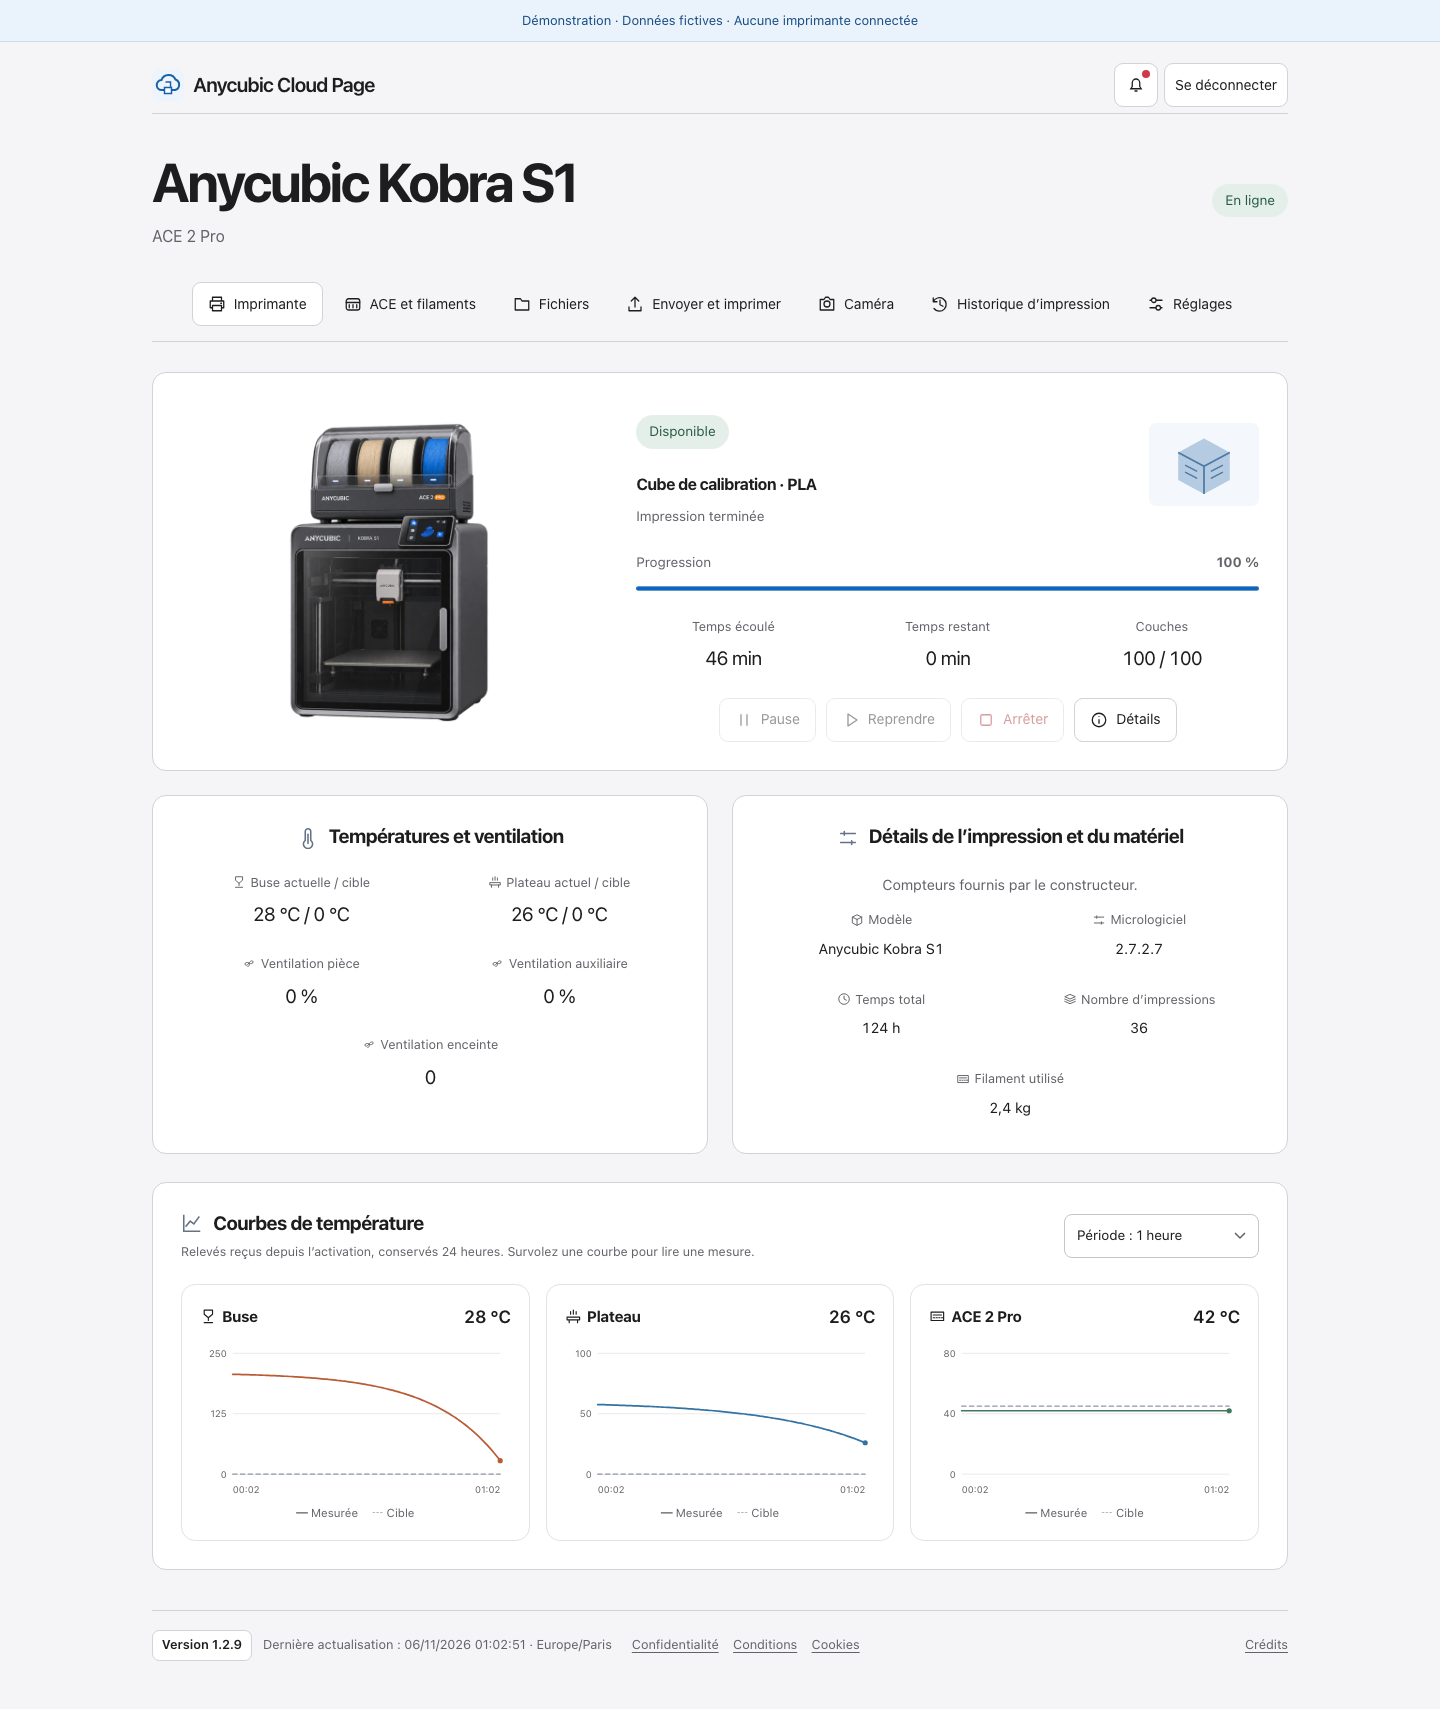
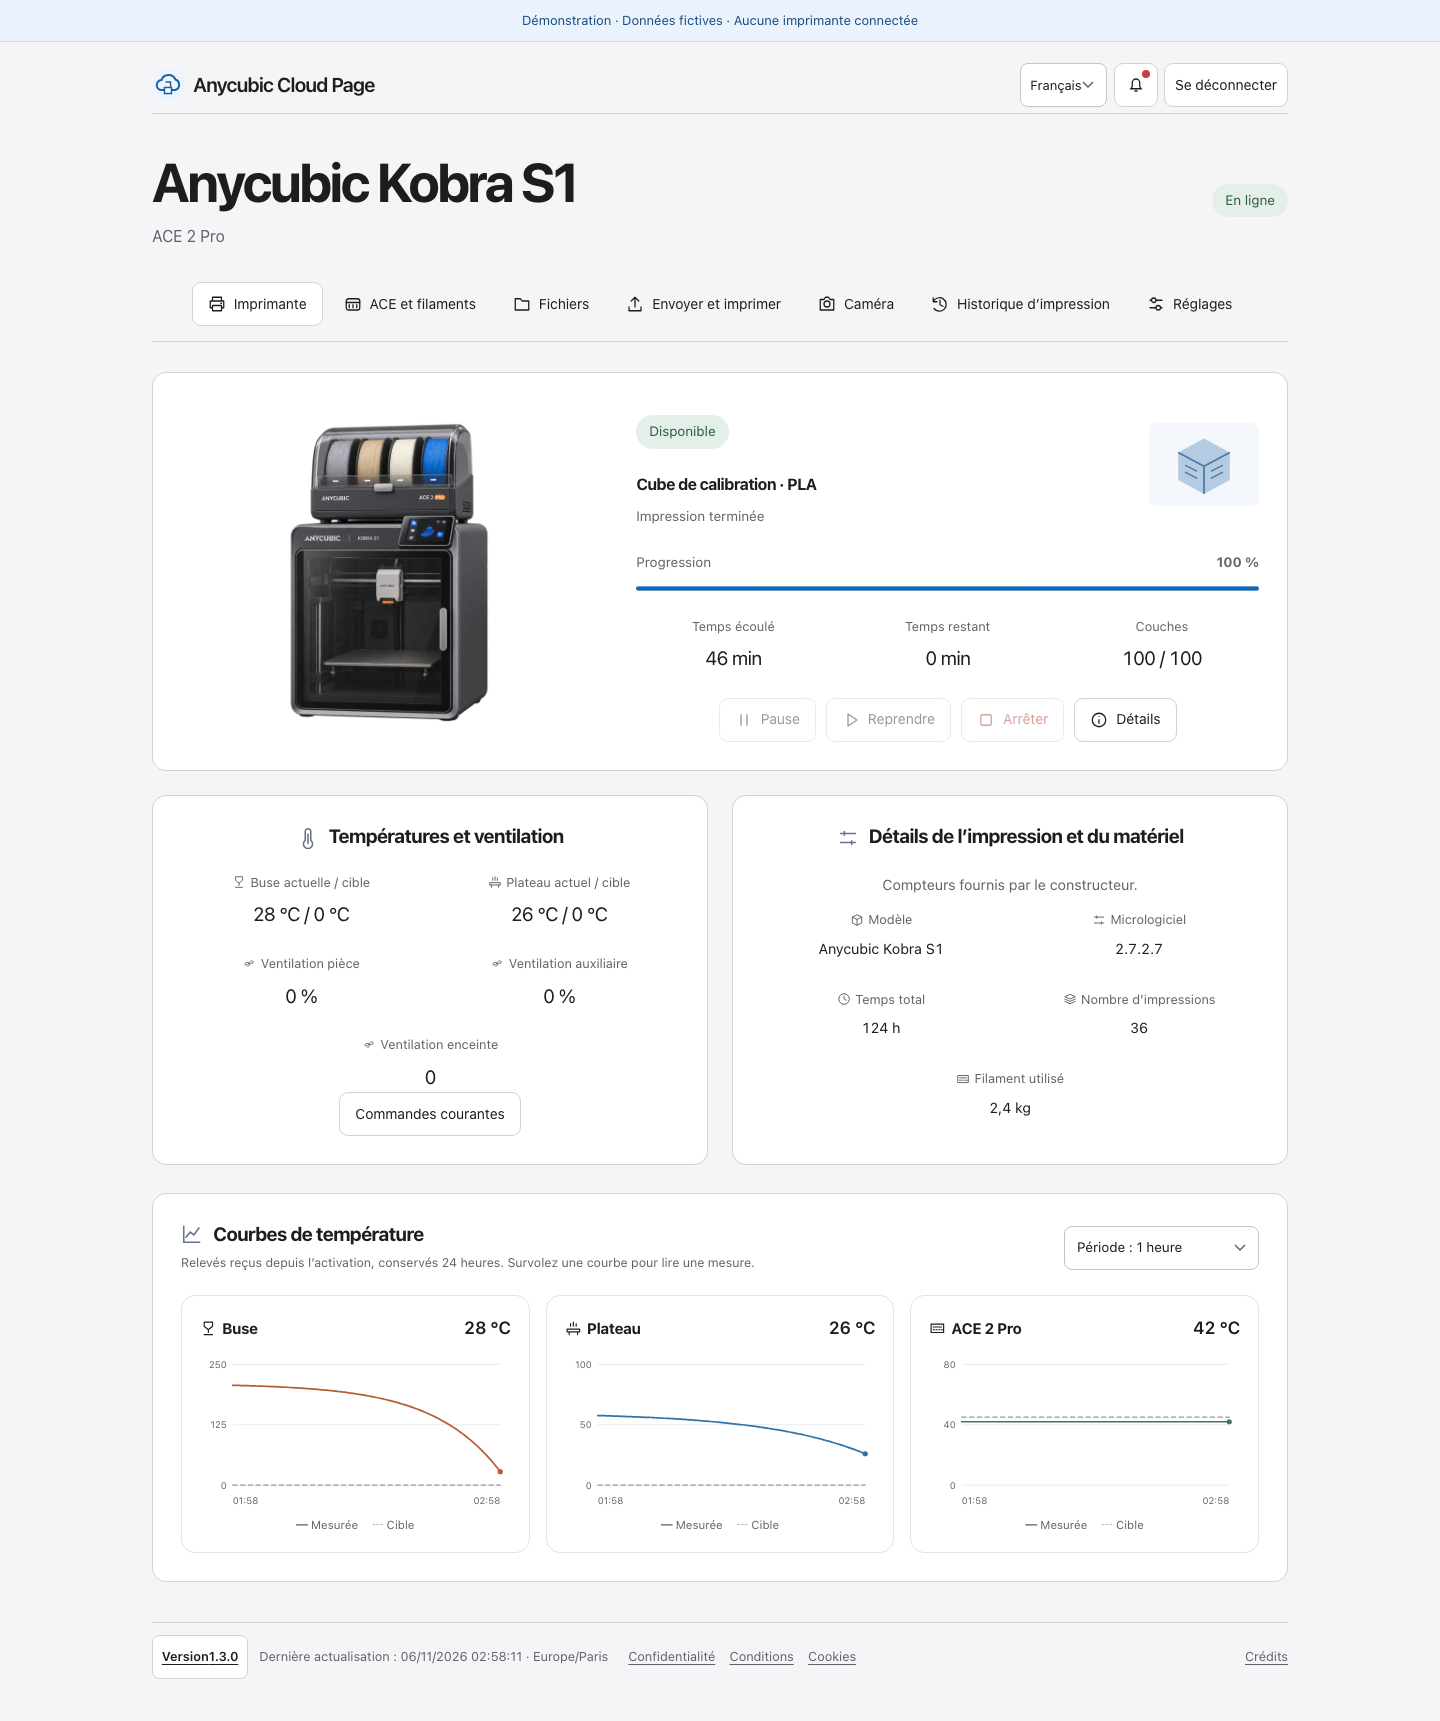
Version 1.3.0 : contrôles, sécurité et historique cumulé

diff --git a/CHANGELOG.md b/CHANGELOG.md
@@ -1,6 +1,6 @@
 # Changements
 
-## À venir
+## 1.3.0 — 2026-11-06
 
 - Sélecteur français, anglais et espagnol, avec repli automatique en français si le catalogue de traduction manque ou tarde à répondre (#55).
 - Commandes de température, ventilation et éclairage regroupées dans l’onglet Imprimante. Pavé de déplacement arrondi (#43, #44).
@@ -10,6 +10,8 @@
 - Session renforcée et nouvelle vérification du mot de passe avant les actions sensibles (#69).
 - Journal des commandes avec export filtré et rapprochement des confirmations MQTT (#70).
 - Interface découpée en modules et transport de compte partagé explicitement entre les imprimantes. Le contrôle de formatage Python fait partie de la CI (#66, #67, #68).
+
+La caméra et les miniatures de notifications ont été validées sur des réponses simulées. La galerie Timelapse reste désactivée. La validation selon le micrologiciel, les références de téléchargement vidéo et les dossiers cloud restent suivis dans #20, #30 et #31.
 
 ## 1.2.10 — 2026-11-06
 

diff --git a/README.md b/README.md
@@ -1,6 +1,6 @@
 # Anycubic Cloud Page
 
-Version **1.2.10**. [Changements](CHANGELOG.md).
+Version **1.3.0**. [Changements](CHANGELOG.md).
 
 **L’atelier Anycubic dans une page web autonome, sans garder AnycubicSlicerNext ouvert.**
 

diff --git a/README.en.md b/README.en.md
@@ -1,6 +1,6 @@
 # Anycubic Cloud Page
 
-Version **1.2.10**. [Changelog](CHANGELOG.md).
+Version **1.3.0**. [Changelog](CHANGELOG.md).
 
 **A standalone web workshop for Anycubic Cloud, without keeping AnycubicSlicerNext open.**
 
